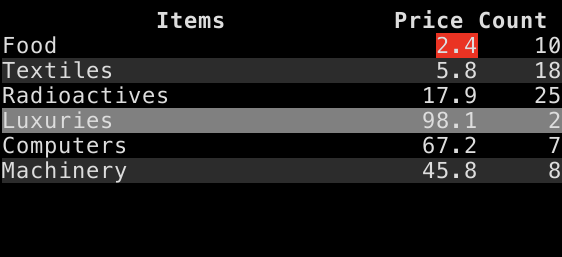
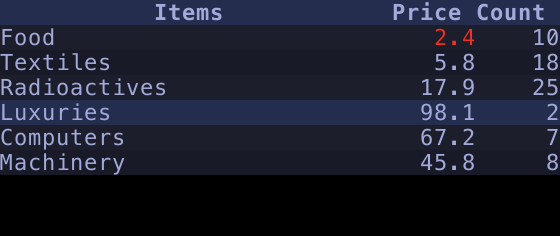
table example updated to use non-default row styles

diff --git a/examples/table.py b/examples/table.py
@@ -5,8 +5,19 @@ from pytui_extra import Table
 # create 40x10 window at top left
 window = Window(0, 0, 40, 10)
 
-# create table with 3 columns: 2x 4 char wide on the right, with the remainder on the left
-table = Table(window, [None, 6, 6], ['Items', 'Price', 'Count'])
+# create a table with three columns: two 6 char wide on the right, with the remainder on the left
+table = Table(
+    window,
+    [None, 6, 6],
+    # include optional header and set style
+    ['Items', 'Price', 'Count'],
+    header_style={'bg': 0x232D51, 'fg': 0xA2AADD, 'bold': True}
+)
+
+# change default row and highlight styles
+table.row_style = {'bg': 0x1B1E2D, 'fg': 0xA2AADD}
+table.alt_row_style = {'bg': 0x181A28, 'fg': 0xA2AADD}
+table.highlight_style = {'bg': 0x232D51, 'fg': 0xA2AADD}
 
 # right-justify the right columns
 table.set_column_format(1, {'justify': 'right'})
@@ -14,7 +25,7 @@ table.set_column_format(2, {'justify': 'right'})
 
 # update table with data - slice operators are useful for 'paging'
 table.update([
-    ['Food', Text('2.4').style({'bg': 0xff0000}), 10],  # apply style to individual cell
+    ['Food', Text('2.4').style({'fg': 0xff0000}), 10],  # apply style to individual cell
     ['Textiles', 5.8, 18],
     ['Radioactives', 17.9, 25],
     table.highlight_row(['Luxuries', '98.1', '2']),         # highlight row
@@ -22,5 +33,5 @@ table.update([
     ['Machinery', 45.8, 8],
 ])
 
-# draw table window
+# draw table
 table.draw()

diff --git a/README.md b/README.md
@@ -35,15 +35,29 @@ Rows can be styled individually using `style_row`. This accepts a list of string
 
 Example:
 
+Create a table in a 40x10 window with three columns, a header and non-default row styles.
+
 ```
 from pytui import Window, Text
 from pytui_extra import Table
 
-# create 80x40 window at 0,0
-window = Window(0, 0, 80, 40)
 
-# create table with 3 columns: 2x 4 char wide on the right, with the remainder on the left
-table = Table(window, [None, 4, 4])
+# create 40x10 window at top left
+window = Window(0, 0, 40, 10)
+
+# create a table with three columns: two 6 char wide on the right, with the remainder on the left
+table = Table(
+    window,
+    [None, 6, 6],
+    # include optional header and set style
+    ['Items', 'Price', 'Count'],
+    header_style={'bg': 0x232D51, 'fg': 0xA2AADD, 'bold': True}
+)
+
+# change default row and highlight styles
+table.row_style = {'bg': 0x1B1E2D, 'fg': 0xA2AADD}
+table.alt_row_style = {'bg': 0x181A28, 'fg': 0xA2AADD}
+table.highlight_style = {'bg': 0x232D51, 'fg': 0xA2AADD}
 
 # right-justify the right columns
 table.set_column_format(1, {'justify': 'right'})
@@ -51,15 +65,15 @@ table.set_column_format(2, {'justify': 'right'})
 
 # update table with data - slice operators are useful for 'paging'
 table.update([
-    ['Food', Text('2.4').style({'bg': 0xff0000}), 10],  # apply style to individual cell
+    ['Food', Text('2.4').style({'fg': 0xff0000}), 10],  # apply style to individual cell
     ['Textiles', 5.8, 18],
     ['Radioactives', 17.9, 25],
-    table.highlight_row(['Luxuries', 98.1, 2]),         # highlight row
+    table.highlight_row(['Luxuries', '98.1', '2']),         # highlight row
     ['Computers', 67.2, 7],
     ['Machinery', 45.8, 8],
 ])
 
-# draw table window
+# draw table
 table.draw()
 ```
 ![table](docs/images/table.png)
